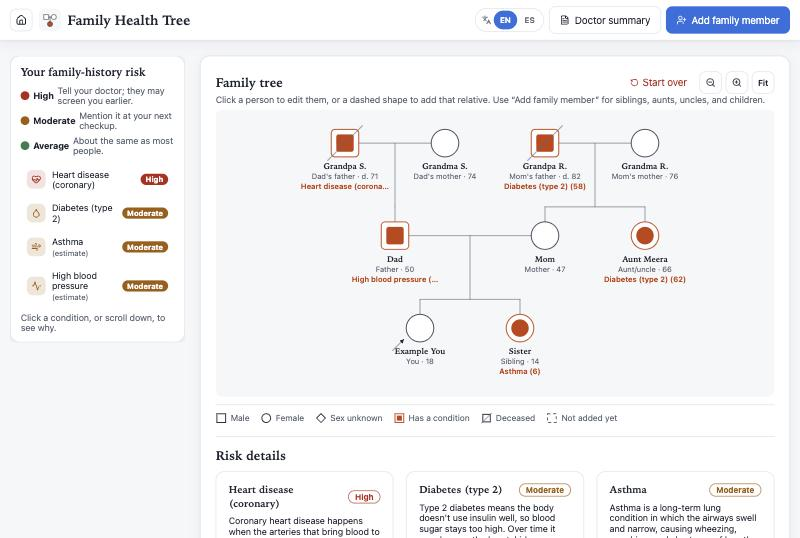
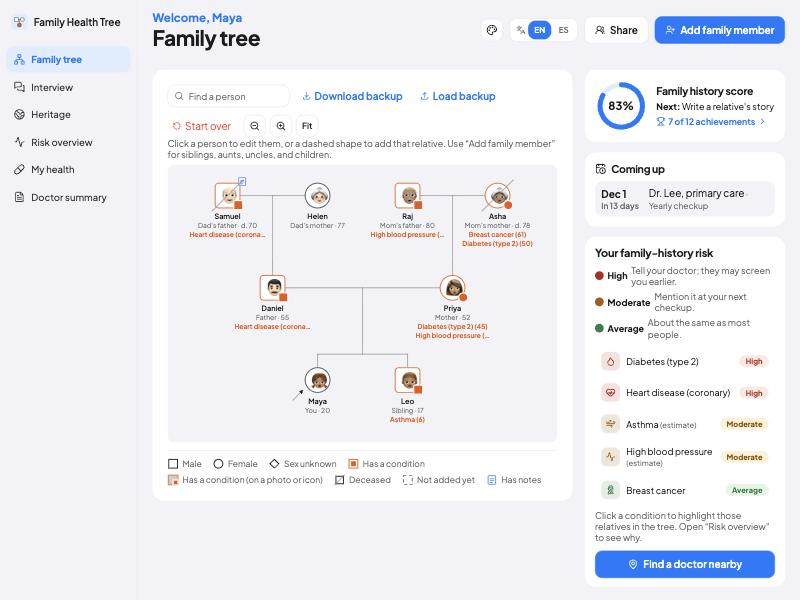
Deploy Family Health Tree

diff --git a/README.md b/README.md
@@ -6,27 +6,63 @@
 
 **Source code:** kept in a private CS 124 course repository; the public `family-health-tree` repository holds the built site.
 
-Doctors ask "Does this run in your family?" and most people can't answer, because the facts are scattered across relatives' memories. Family Health Tree lets you build your family tree as a medical pedigree chart, record the conditions your relatives have had and when they started, and see a family-history risk level for each condition, based on criteria published by the CDC. Then it helps you act on it: which kind of specialist to see, real doctors near you, and a printable summary with questions to bring to your appointment. It records and explains; it does not diagnose or give medical advice.
+Doctors ask "Does this run in your family?" and most people can't answer, because the facts are scattered across relatives' memories. Family Health Tree lets you build your family tree as a medical pedigree chart, record the conditions your relatives have had and when they started, and see a family-history risk level for each condition, based on criteria published by the CDC. Then it helps you act on it: which kind of specialist to see, real doctors near you, your own health record and doctor visits, and a printable summary with questions to bring to your appointment. You can build the tree together with relatives, and keep their stories, birthplaces, and photos alongside their health. It records and explains; it does not diagnose or give medical advice.
 
 ![Welcome page with three steps: build your family tree, add health conditions, see your risk levels](docs/welcome.jpg)
 
 ## Features
 
-- **Pedigree chart.** The family is drawn the way genetic counselors draw it: squares for males, circles for females, a solid center for anyone with a condition, a slash for a relative who has died, and an arrow for you. Dad's side is on the left, mom's on the right, with great-grandparents above and cousins below their parents. Zoom in, zoom out, or fit the whole family to the screen.
-- **Family-history risk levels.** Each condition gets a **High**, **Moderate**, or **Average** level, in red, yellow, and green, with a plain-language reason ("Grandpa S. had it at 52, which counts as early"). The risk list stays in view in a sidebar; clicking a condition highlights the relatives who have it.
-- **What each disease is.** Every risk card explains the condition briefly and links to CDC.gov.
-- **Who to see.** Each risk card names the kind of specialist who treats it, such as a cardiologist for heart disease, and suggests a genetic counselor when a cancer runs strongly in the family.
-- **Find nearby doctors.** Type a ZIP code to see up to five nearby specialists of that kind, with address, map link, and phone number, from the U.S. government's public directory of licensed clinicians.
-- **Doctor summary.** A one-page summary of risk levels, who to see, relatives with conditions, and **questions for your doctor** generated from your risks, with space to write the answers. It prints or saves as a PDF.
-- **English and Spanish.** Switch languages on the welcome page or in the app bar; the doctor summary can be printed in English for the doctor.
-- **Any condition.** Pick from common conditions or type your own.
-- **Private by design.** Your family stays in your own browser. Only the doctor search sends anything out: the kind of specialist and a ZIP code.
-- **Start over** erases the tree after asking, for trying a different family.
-- **Works on phones.** On an iPhone, open the link in Safari and choose Share → Add to Home Screen to install it like an app.
+### Your family's health
 
-| The tree page | Who to see and nearby doctors | Questions for your doctor |
+- **Pedigree chart.** The family is drawn the way genetic counselors draw it: squares for males, circles for females, a solid center for anyone with a condition, a slash for a relative who has died, and an arrow for you. Dad's side is on the left, mom's on the right, with great-grandparents above and cousins below their parents. Zoom in, zoom out, fit the whole family to the screen, or **find a person** by name.
+- **Photos and person icons.** Give anyone a photo (cropped and shrunk on your device) or an emoji person icon in one of five skin tones. It shows inside their shape in the chart, and a condition moves to a small badge in the corner.
+- **Family Interview.** An Interview tab walks through Mom, Dad, and all four grandparents one question at a time (name, living, age, conditions), for filling in the tree while talking with a relative.
+- **Notes** on each person and each condition, marked with a note icon in the chart.
+- **Any condition.** Pick from common conditions or type your own.
+
+### Understanding the risk
+
+- **Family-history risk levels.** Each condition gets a **High**, **Moderate**, or **Average** level, in red, yellow, and green, with a plain-language reason ("Grandpa S. had it at 52, which counts as early"). Clicking a condition highlights the relatives who have it.
+- **What each disease is,** with a link to the official CDC or NIH page.
+- **Who to see.** Each risk names the kind of specialist who treats it, such as a cardiologist for heart disease, and suggests a genetic counselor when a cancer runs strongly in the family.
+- **Find a doctor nearby.** Type a ZIP code to see up to five nearby specialists of that kind, with address, map link, and phone number, from the U.S. government's public directory of licensed clinicians. A short guide shows first-time users how, and a clear message explains a mistyped ZIP code or an area with no matches.
+
+### Your own health
+
+- **My health.** Your medications (dose and how often) and allergies (and the reaction). It stays private to you, even when the family tree is shared.
+- **Doctor visits.** Log each visit with the doctor, the reason, questions to ask (suggested from your family's risks), notes, and next steps.
+- **Reminders.** "Add to calendar" saves a visit to Apple, Google, or Outlook calendar, and a **Coming up** card lists visits in the next 60 days.
+- **Doctor summary.** One printable page with risk levels, who to see, relatives with conditions, your medications and allergies, and **questions for your doctor** with space for the answers. It prints or saves as a PDF.
+
+### Your family's story
+
+- **Heritage map.** Record where each relative was born and a few lines of their story; a world map pins every birthplace.
+- **Family story slideshow.** "Play family story" on the home screen presents each generation, with photos, birthplaces, and stories.
+
+### Building it together
+
+- **Family sharing.** Sign in with Google (optional) and invite relatives with a link. Everyone sees the same tree, and changes show up for everyone within seconds. Only people you invite can see it.
+- **Family activity.** A feed on the tree page shows who changed what ("Mom added Diabetes (type 2) to Grandma · just now"), and green dots show who has the app open.
+
+### Coming back to it
+
+- **Grow your tree.** A family history score and a "Next:" suggestion for what to add, plus 12 achievements that pop up as you earn them.
+- **Backup and restore.** Download the whole family as a file and load it back on any device.
+- **Start over** erases the tree after asking.
+
+### Made for everyone
+
+- **English and Spanish.** Switch anywhere; the doctor summary can be printed in English for the doctor.
+- **Clean, app-like design** in light and dark mode, with the Plus Jakarta Sans font and seven theme colors to choose from.
+- **Works on phones,** with a tab bar along the bottom. On an iPhone, open the link in Safari and choose Share → Add to Home Screen to install it like an app.
+
+| The tree page | Who to see and nearby doctors | Doctor summary |
 |---|---|---|
-| ![App bar, risk sidebar with icons and levels, and a pedigree chart of an example family](docs/pedigree-chart.jpg) | ![Risk cards with disease descriptions, Who to see, and a Find nearby list of cardiologists for a ZIP code](docs/risk-cards.jpg) | ![Doctor summary with a Who to see column and numbered questions for the doctor with lines for answers](docs/doctor-summary.jpg) |
+| ![Tree page with emoji person icons in a pedigree chart, a family history score, a Coming up card, and risk levels](docs/pedigree-chart.jpg) | ![Risk overview cards with disease descriptions, who to see, and five nearby endocrinologists for a ZIP code](docs/risk-cards.jpg) | ![Doctor summary with medications, allergies, and risk levels with reasons and who to see](docs/doctor-summary.jpg) |
+
+| Heritage map | My health |
+|---|---|
+| ![World map with pins for where relatives were born, and their stories](docs/heritage.jpg) | ![Medications, allergies, and an upcoming doctor visit with questions to ask and Add to calendar](docs/my-health.jpg) |
 
 *Screenshots use a made-up example family. The nearby doctors come from the public NPI Registry.*
 
@@ -47,58 +83,63 @@ The criteria name eight conditions: coronary heart disease, stroke, type 2 diabe
 ```mermaid
 flowchart LR
     subgraph Browser["Browser (GitHub Pages)"]
-        UI["React screens<br/>Welcome · Tree · Doctor summary"]
-        Form["Person form<br/>validation"]
-        Layout["pedigree.ts<br/>chart layout"]
-        Risk["risk.ts<br/>CDC risk rules"]
-        Advice["specialists.ts · doctorQuestions.ts<br/>who to see, questions"]
+        UI["React screens<br/>Tree · Interview · Heritage · Risks · My health · Summary · Sharing"]
+        Logic["Plain TypeScript<br/>pedigree layout · CDC risk rules · specialists · questions · score · calendar"]
         Text["i18n<br/>English · Spanish"]
         Store[("localStorage")]
+        Sync["Family sharing<br/>loaded only when used"]
     end
     subgraph Vercel["Vercel"]
         Api["api/doctors.ts<br/>doctor search"]
     end
+    subgraph Firebase["Google Firebase"]
+        Auth["Google sign-in"]
+        DB[("Firestore<br/>shared tree · activity · private My health")]
+    end
     NPI[("NPI Registry<br/>U.S. government")]
-    UI --> Form
-    Form -->|"family members"| Store
-    Store -->|"family members"| UI
-    UI --> Layout
-    UI --> Risk
-    UI --> Advice
+    UI --> Logic
     UI --> Text
-    Layout -->|"positions and lines"| SVG["SVG pedigree chart"]
+    UI <-->|"family and records"| Store
     UI -->|"specialist + ZIP"| Api
     Api --> NPI
+    UI <--> Sync
+    Sync --> Auth
+    Sync <-->|"live updates"| DB
 ```
 
-The app is a static single-page app; the family never leaves the browser. One small server function on Vercel handles the doctor search, because the NPI Registry doesn't accept requests from web pages. The chart layout, risk rules, questions, validation, and storage are plain TypeScript functions, kept separate from the React components so each can be tested on its own. All text lives in one English and one Spanish file; risk explanations and form errors are stored as facts and worded in the chosen language.
+The app is a static single-page app that works entirely in the browser; without signing in, the family never leaves the device. One small server function on Vercel handles the doctor search, because the NPI Registry doesn't accept requests from web pages. Family sharing uses Firebase: Google sign-in, and a Firestore database that sends every change to everyone in the family live. Its code is downloaded only by people who use sharing, and `firestore.rules` decides who can read and write what (only invited family can see a tree; each person's My health record is readable only by them). The chart layout, risk rules, questions, score, and storage are plain TypeScript functions, kept separate from the React components so each can be tested on its own. All text lives in one English and one Spanish file.
 
 | Part | File |
 |---|---|
-| Data types (family member, condition, relationship) | `src/types.ts` |
+| Data types (family member, condition, health record) | `src/types.ts` |
 | Relationships and form validation | `src/family.ts` |
 | Pedigree layout: places each generation, couple, and sibling group without overlaps | `src/pedigree.ts` |
 | Family-history risk levels | `src/risk.ts` |
 | Specialists for each condition, and questions for the doctor | `src/specialists.ts`, `src/doctorQuestions.ts` |
-| Disease descriptions and CDC links | `src/conditionInfo.ts` |
-| Nearby doctor search (server) | `server/doctors.ts`, deployed as `api/doctors.ts` |
-| Calling the doctor search from the app | `src/doctorSearch.ts` |
+| Disease descriptions and CDC/NIH links | `src/conditionInfo.ts` |
+| Nearby doctor search (server, and calling it from the app) | `server/doctors.ts` (deployed as `api/doctors.ts`), `src/doctorSearch.ts` |
+| My health, doctor visits, and calendar files | `src/healthRecord.ts`, `src/calendar.ts` |
+| Interview, heritage, slideshow, photos, and person icons | `src/interview.ts`, `src/heritage.ts`, `src/slideshow.ts`, `src/photo.ts`, `src/avatar.ts` |
+| Family history score and achievements | `src/progress.ts` |
+| Family sharing: invite links and change tracking, Firebase, and the sync hook | `src/sharing.ts`, `src/cloud/`, `firestore.rules` |
 | English and Spanish text | `src/i18n/` |
-| Saving and loading | `src/storage.ts` |
+| Saving, loading, and backups | `src/storage.ts` |
 | Screens and components | `src/App.tsx`, `src/components/` |
+| Styles: shared design tokens, then one file per part of the app | `src/styles/` |
 
 ## Key decisions
 
 - **Risk levels, not percentages.** A real percentage chance depends on age, lifestyle, genetics, and disease-specific models, so a number computed from a family tree alone would be misleading. The app uses published CDC criteria instead and says what each level means for a doctor's visit.
 - **Questions, never advice.** The doctor summary suggests questions to ask, not what to do; the doctor decides.
 - **A pedigree chart instead of a simple list.** It's the standard format in genetic counseling, so the chart is familiar to a doctor. That meant writing a custom layout algorithm rather than using a charting library.
-- **No accounts, and the family stays in the browser.** Family health history is sensitive. The only data that leaves the device is a specialist type and ZIP code for the doctor search.
+- **Accounts are optional.** Family health history is sensitive, so the app works fully without signing in, and then the family stays in the browser (only a specialist type and ZIP code leave the device, for the doctor search). Signing in is only for sharing with relatives, who join by an invite link that can't be guessed.
+- **My health is never shared.** In a shared family, everyone edits the same tree, but each person's medications, allergies, and visits stay in a private space only they can read.
 - **A ZIP code instead of location access.** It's more private and works on every device.
-- **Built from feedback.** A classmate couldn't find the risk results, which led to the risk sidebar that stays in view; a group critique led to the specialists and nearby-doctor features.
+- **Built from feedback.** A classmate couldn't find the risk results, which led to the risk sidebar that stays in view; a group critique led to the specialists and nearby-doctor features; a classmate's app (Lock In) inspired the score, reminders, and family sharing that give people a reason to come back.
 
 ## Tech stack
 
-React 19 · TypeScript · Vite · SVG · Vitest · Lucide icons · Vercel (doctor search) · GitHub Pages
+React 19 · TypeScript · Vite · SVG · d3-geo (heritage map) · Firebase Auth and Firestore (family sharing) · Vitest · Lucide icons · Vercel (doctor search) · GitHub Pages
 
 ## Run it locally
 
@@ -114,13 +155,15 @@ npm run dev
 
 Then open the address it prints (usually http://localhost:5173). The doctor search runs inside the local dev server, so Find nearby works locally too.
 
+Family sharing needs a Firebase project. Put its web settings in a `.env.local` file (kept out of git) as `VITE_FIREBASE_API_KEY`, `VITE_FIREBASE_AUTH_DOMAIN`, `VITE_FIREBASE_PROJECT_ID`, `VITE_FIREBASE_STORAGE_BUCKET`, `VITE_FIREBASE_MESSAGING_SENDER_ID`, and `VITE_FIREBASE_APP_ID`, and publish `firestore.rules` in the Firebase console. Without the file, everything else works and sharing is simply turned off.
+
 ## Test
 
 ```bash
 npm test
 ```
 
-60 tests cover the chart layout (placement and no overlaps), each CDC risk rule, specialists and doctor questions in both languages, the doctor search (with fake directory answers), form validation, disease descriptions, and saving, loading, and erasing, including recovering from corrupted saved data.
+187 tests in 31 files cover the chart layout (placement and no overlaps), each CDC risk rule, specialists and doctor questions in both languages, the doctor search (with fake directory answers) and its messages, form validation, the interview, heritage, slideshow, photos and person icons, the score and achievements, calendar files, family sharing (invite links, what changed, the activity feed, who's online), the main screens, and saving, loading, backups, and erasing, including recovering from corrupted saved data.
 
 ## Deploy
 
@@ -142,8 +185,8 @@ It's served at https://family-health-tree-api.vercel.app and only answers the ap
 
 ## What's next
 
-- A phone layout with a bottom tab bar (Tree, Risks, Summary).
-- A short guide for first-time users.
-- More people trying it and giving feedback, and a review of the Spanish by a native speaker.
+- **Ask a relative:** send a relative a question by link ("When did Grandpa's heart problem start?"); they answer without an account, and the answer lands on that person in your tree.
+- Telling a ZIP code that doesn't exist apart from an area with no matching doctors.
+- More classmates trying it, and a review of the Spanish by a native speaker.
 
 Built by Riddhi for CS 124 at the University of Illinois, working with Claude Code.
